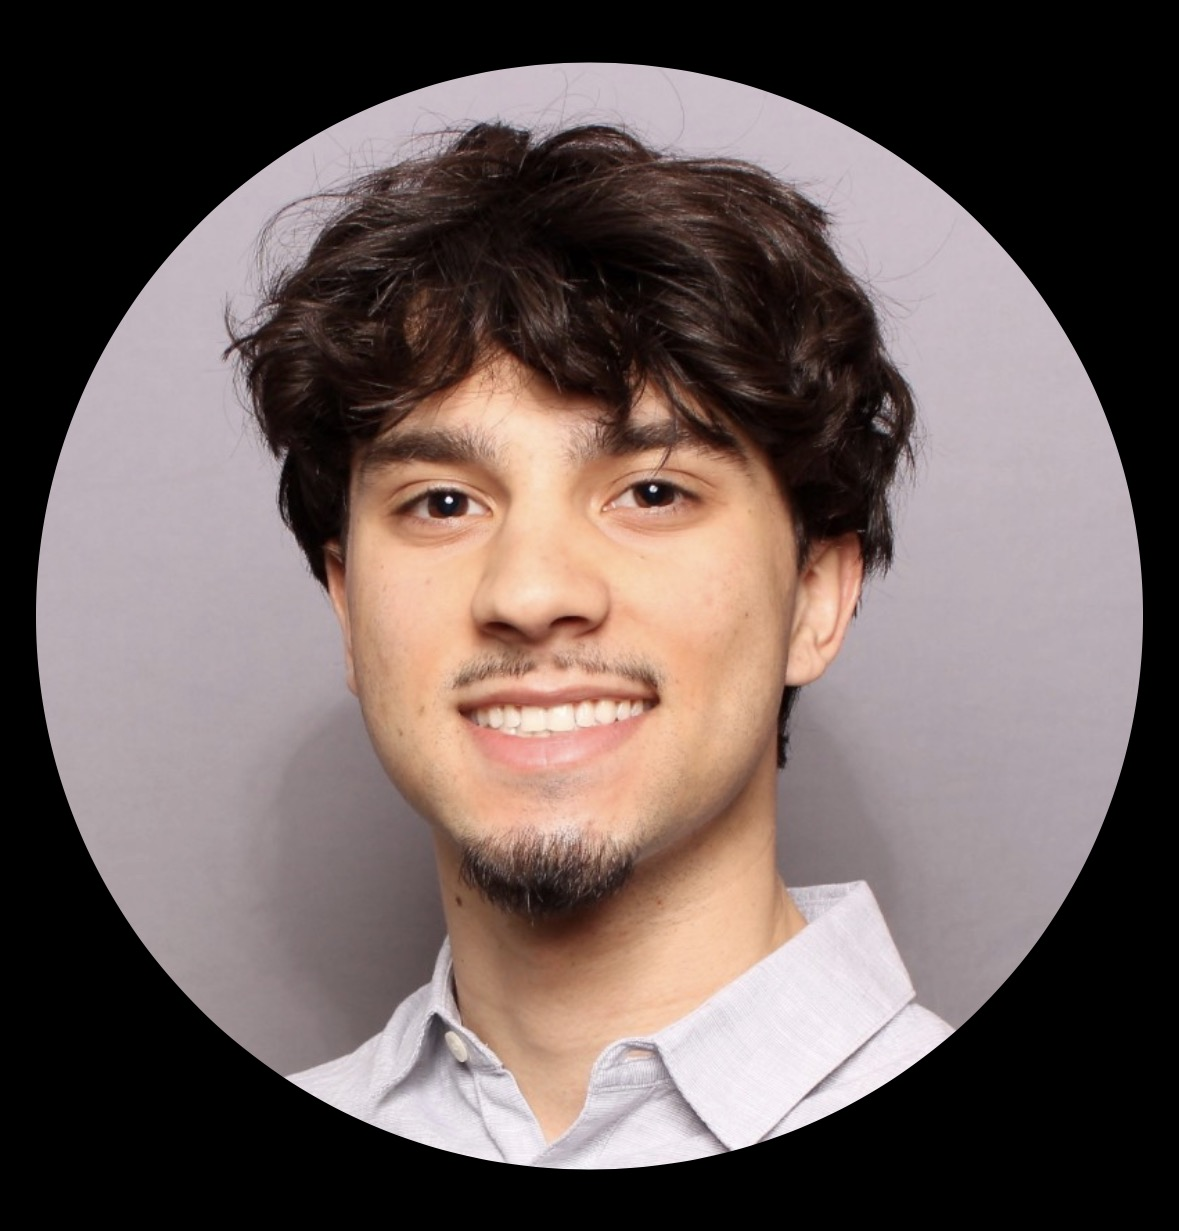
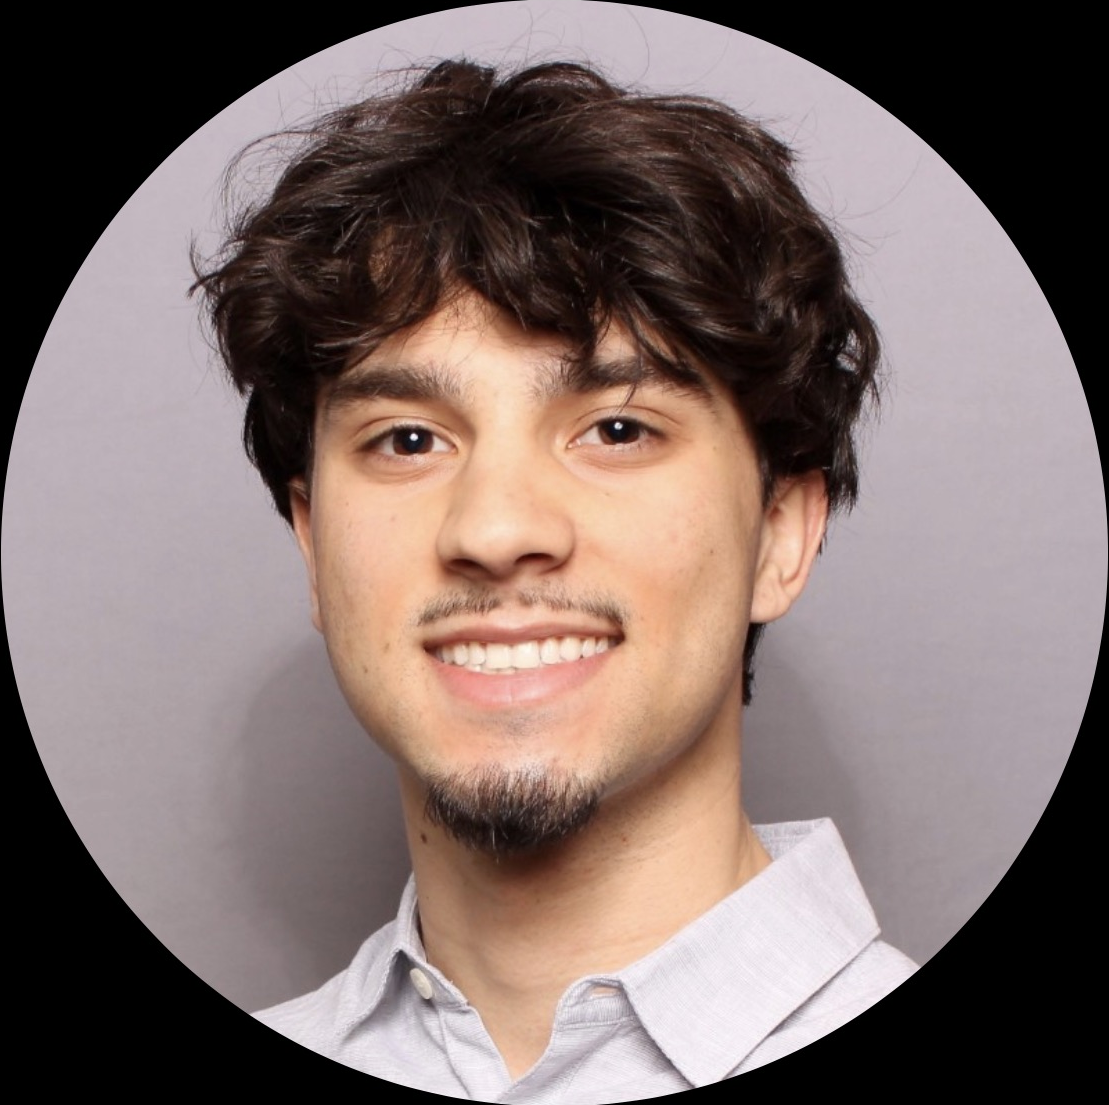
added animations

diff --git a/src/components/App.vue b/src/components/App.vue
@@ -1,6 +1,6 @@
 ```vue
 <template>
-    <div>
+   <div>
         <nav>
             <a href="#about">About Me</a>
             <a href="#languages-and-tools">Languages and Tools</a>
@@ -9,10 +9,10 @@
         </nav>
 
         <section class="section">
+        <div class="header">
         <h1> {{ title }}</h1>
-        <div id =contact>
-        <div>
-            <img src="/headshot.png" width="200" height= "200">
+        <div class = "headshot-wrapper">
+            <img src="/headshot.png" class="headshot" width="200" height= "200">
         </div>
         <ul>
             <li><a :href="github" target="_blank" class="links">
@@ -34,27 +34,24 @@
         </section>
 
         <div>
-            <p>An aspiring software engineer with a passion for iOS development and machine learning.</p>
+            <p>An aspiring software engineer with a passion for mobile development and interests in backend engineering and machine learning.</p>
         </div>
 
-        <section class="section">
+        <section class="section" id="languages-and-tools">
         <h2>{{ second_tile }}</h2>
-        <div id="languages-and-tools">
         <ul>
             <li><img src="/swift.svg" alt="Swift" width="50" height="50"></li>
             <li><img src="/C++.svg" alt="C++" width="50" height="50"></li>
             <li><img src="/Java.svg" alt="Java" width="50" height="50"></li>
             <li><img src="/Python.svg" alt="Python" width="50" height="50"></li>
-            <li> <img src="/vue.svg" alt="Vue.js" width="50" height="50"></li>
-            <li>  <img src="/react.svg" alt="React" width="50" height="50"></li>
+            <li><img src="/vue.svg" alt="Vue.js" width="50" height="50"></li>
+            <li><img src="/react.svg" alt="React" width="50" height="50"></li>
         </ul>
-        </div>
         </section>
 
-        <section class="section">
-       <div id="projects">
+        <section class="section" id="projects">
         <h2>Projects</h2>
-        <><ul>
+        <ul>
             <li>
                 <h2>fairwayd iOS App</h2>
                 <p>A mobile application that helps golfers find new courses, reviews courses, and recieve AI based recommendations.</p>
@@ -74,8 +71,17 @@
                 <h2>Raytracing Engine</h2>
                 <p>A raytracing engine built in C++ that simulates the way light interacts with objects to create realistic images.</p>
             </li>
-        </ul>
-</div>
+            </ul>
+        </section>
+    <section class="section" id="contact">
+        <h3>
+            <li>708-270-7899</li>
+            <li>Personal: dangino3130@gmail.com</li>
+            <li>Educational: dlmorso@ilstu.edu</li>
+        </h3>
+        <p>Danny Morsovillo 2026</p>
+        <p>Privacy Policy - This site does not collect any personal data. </p>
+        
     </section>
 </div>
 </template>
@@ -88,12 +94,27 @@ export default{
             title: "Danny Morsovillo",
             second_tile: "Languages and Tools",
             github: "https://github.com/dannymorsovillo",
-            linkedin: "https://www.linkedin.com/in/danielmorsovillo"
+            linkedin: "https://www.linkedin.com/in/danielmorsovillo",
         }
     },
-    methods: {
-        
-    }
+    mounted() {
+    const sections = document.querySelectorAll('.section');
+    const observer = new IntersectionObserver(
+        (entries) => {
+            entries.forEach(entry => {
+                if (entry.isIntersecting) {
+                    entry.target.classList.add('visible');
+                } else {
+                    entry.target.classList.remove('visible');
+                }
+            });
+        },
+        { threshold: 0.15 }
+    );
+    sections.forEach(section => {
+        observer.observe(section);
+    });
+}
 }
 
 </script>
@@ -105,12 +126,20 @@ export default{
         padding: 0;
     }
 
+    html {
+        scroll-behavior: smooth;
+    }
+
 </style>
 
 <style scoped >
+    .header{
+        text-align:center;
+    }
     nav {
         background-color: #333;
         padding: 15px;
+         font-family: 'Arial', sans-serif;
         text-align: center;
     }
 
@@ -126,7 +155,7 @@ export default{
 
 
     .links {
-        margin-top:1rem;
+        color:white;
     }
 
     ul {
@@ -152,24 +181,37 @@ export default{
          text-align: center;  
     }
 
-    h1 {
+    h1, h2 {
         color: white;
         font-family: 'Arial', sans-serif;
         text-align: center;  
     }
 
-    h2 {
-        color: white;
+    h3 {
+        text-align:center;
+        color:white;
         font-family: 'Arial', sans-serif;
-        text-align: center;
-        
+    }
+
+
+    .headshot {
+      border-radius: 50%;
     }
 
     .section {
         padding: 60px 20px;  
         max-width: 900px;    
-        margin: 0 auto;     
+        margin: 0 auto;
+        opacity: 0;
+        transform: translateY(100px);
+        transition: opacity 0.7s ease, transform 0.7s ease;
     }
+
+    .section.visible {
+        opacity: 1;
+        transform: translateY(0);
+    }
+
 
    
     #projects > ul {
@@ -213,6 +255,9 @@ export default{
         margin-top: -5px;
         font-family: 'Arial', sans-serif;
     }
+
+
+    
 
 
         

diff --git a/index.html b/index.html
@@ -3,6 +3,8 @@
   <head>
     <meta charset="UTF-8" />
     <link rel="icon" type="image/svg+xml" href="/vite.svg" />
+    <!-- In your index.html <head> -->
+<link href="https://fonts.googleapis.com/css2?family=Space+Grotesk:wght@400;600;700&family=Inter:wght@400;500&display=swap" rel="stylesheet">
     <meta name="viewport" content="width=device-width, initial-scale=1.0" />
     <title>personal-website</title>
   </head>
